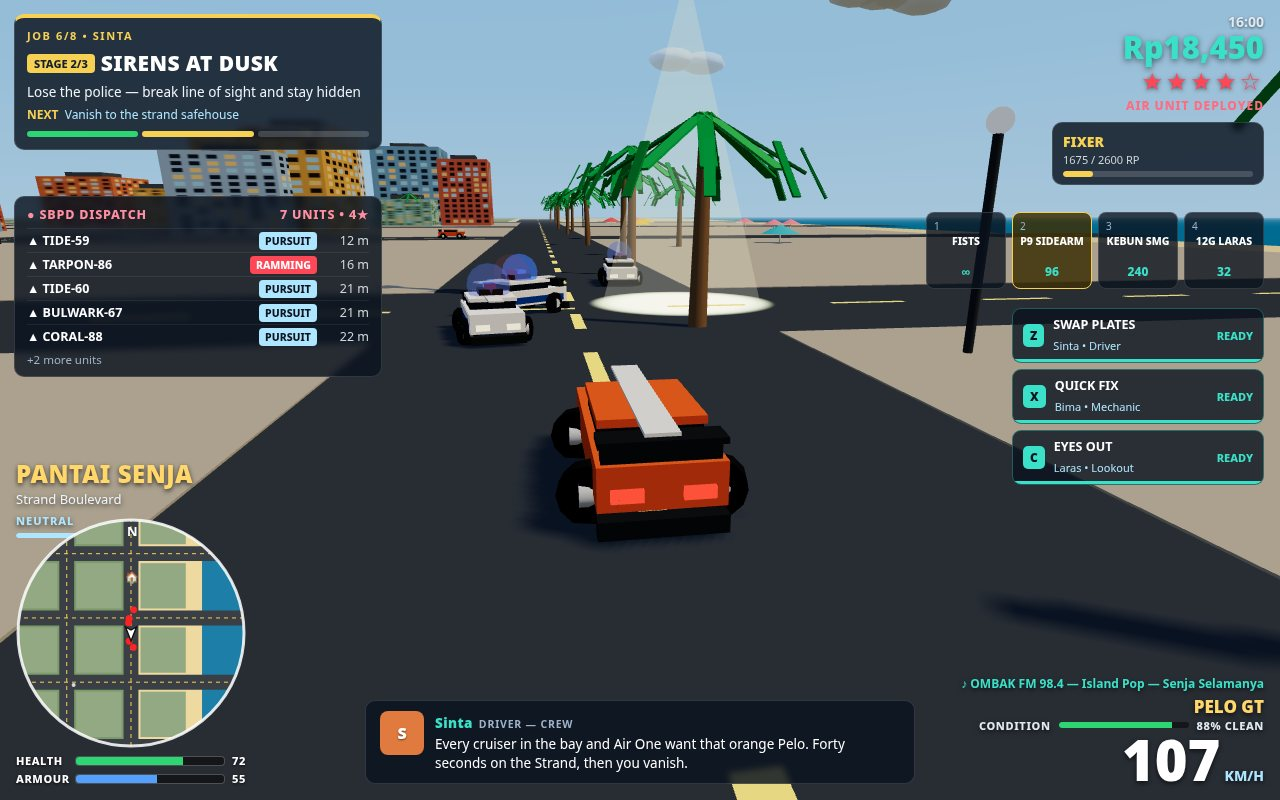
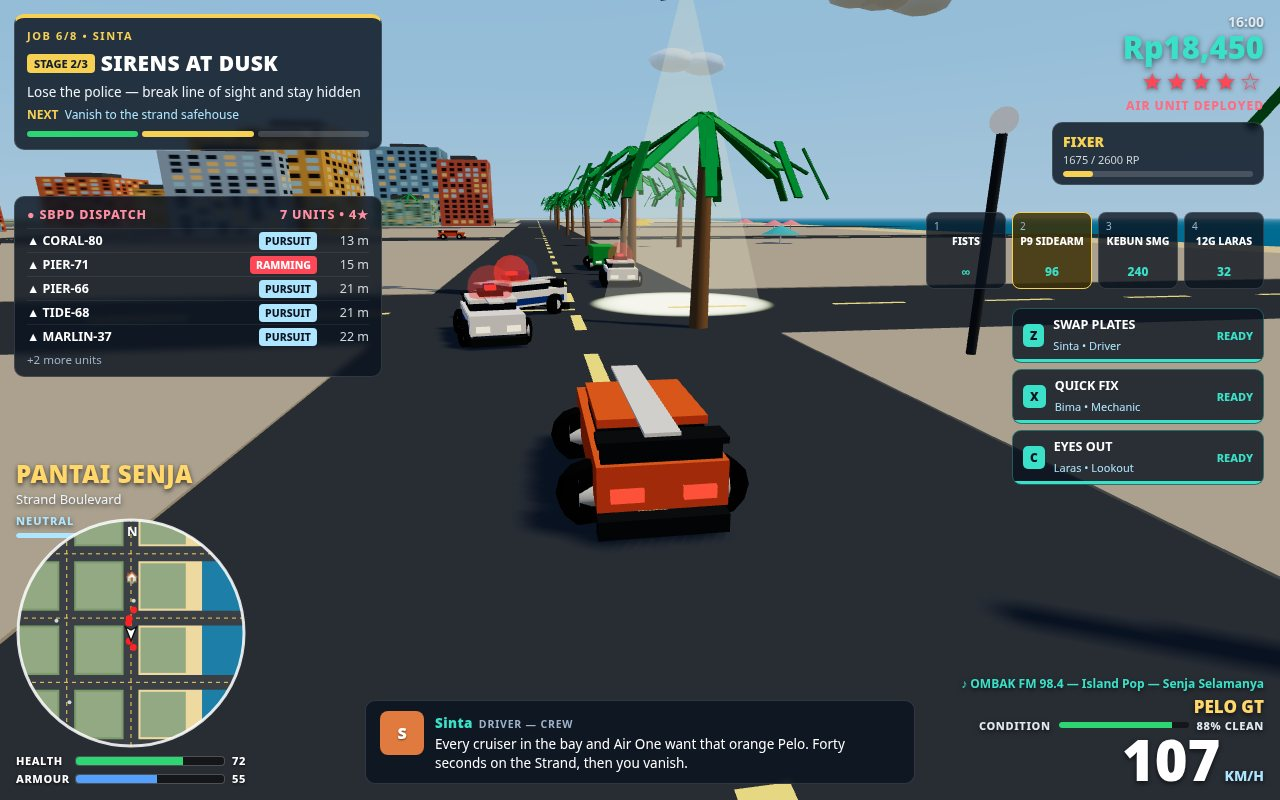
Senja Bay Heat: recorded build pass — full source rewrite, 18 traffic cars, refreshed screenshots

diff --git a/game/src/main.js b/game/src/main.js
@@ -94,7 +94,7 @@ function spawnCar(modelIdx, x, z, heading, kind, opts = {}) {
 const parkedSpots = [[268, -95, 2, Math.PI / 2], [120, 12, 0, 0], [-40, -190, 1, 0], [200, 100, 3, Math.PI / 2], [-230, -60, 4, 0], [60, 230, 5, Math.PI / 2], [-120, 40, 0, 0], [310, 120, 1, Math.PI / 2], [-280, 200, 2, 0], [30, -280, 3, 0]];
 for (const [x, z, m, h] of parkedSpots) spawnCar(m, x, z, h, "parked", m === 2 ? { color: 0xf06423 } : {});
 // Rolling traffic.
-for (let i = 0; i < 16; i++) {
+for (let i = 0; i < 18; i++) {
   const lines = roadLines();
   const alongX = Math.random() < 0.5;
   const line = lines[(Math.random() * lines.length) | 0];

diff --git a/game/src/city.js b/game/src/city.js
@@ -49,6 +49,7 @@ function windowTexture(base, litRatio, rnd) {
   return t;
 }
 
+// Sky dome: its material colour is tinted every frame by the day cycle in main.js.
 export function buildSky(scene, rnd) {
   // A gradient dome, a low sun disc and flat-shaded cloud clusters — the
   // tropical sky the top of the frame is judged on.
